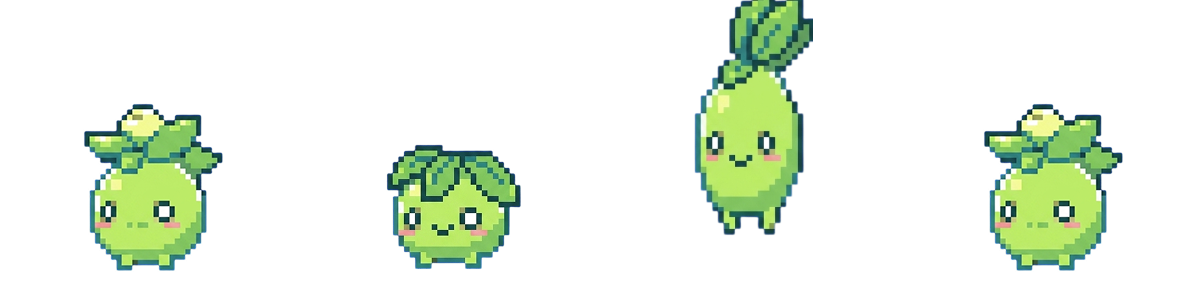
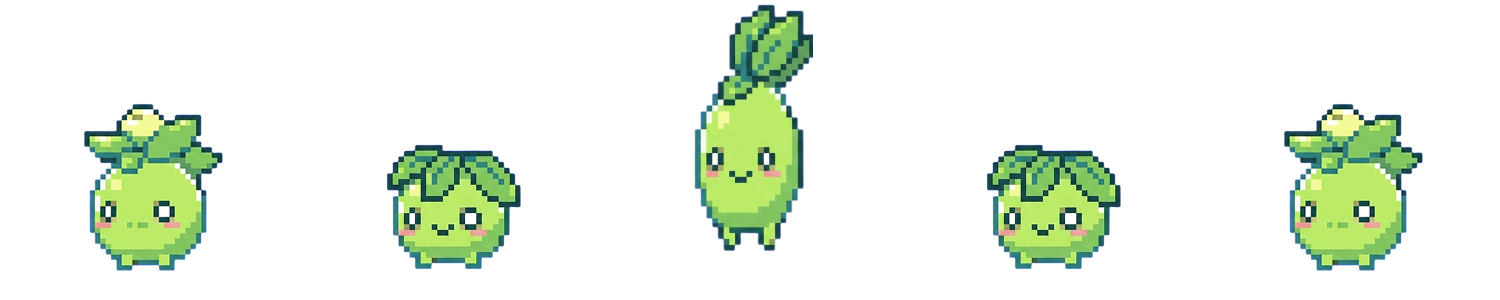
feat: green grub now 5-frame animation

diff --git a/index.html b/index.html
@@ -177,7 +177,7 @@ const runnerImg = new Image();
 let runnerReady=false;
 runnerImg.onload=()=>{ runnerReady=true; };
 runnerImg.src='runner.png';
-const RUN_FRAMES=4, RUN_FW=300, RUN_FH=300;
+const RUN_FRAMES=5, RUN_FW=300, RUN_FH=300;
 
 // ---------- helpers ----------
 const rand=(a,b)=>a+Math.random()*(b-a);
@@ -480,7 +480,8 @@ function draw(){
     const gready = e.green?runnerReady:grubReady;
     if(e.type==='grub' && gready){
       const disp=73;                     // 140% sprite size
-      const fr=Math.floor(e.anim)%GRUB_FRAMES;
+      const frames=e.green?RUN_FRAMES:GRUB_FRAMES;
+      const fr=Math.floor(e.anim)%frames;
       ctx.save();
       ctx.imageSmoothingEnabled=false;
       ctx.translate(e.x,e.y); ctx.scale(e.face,1);